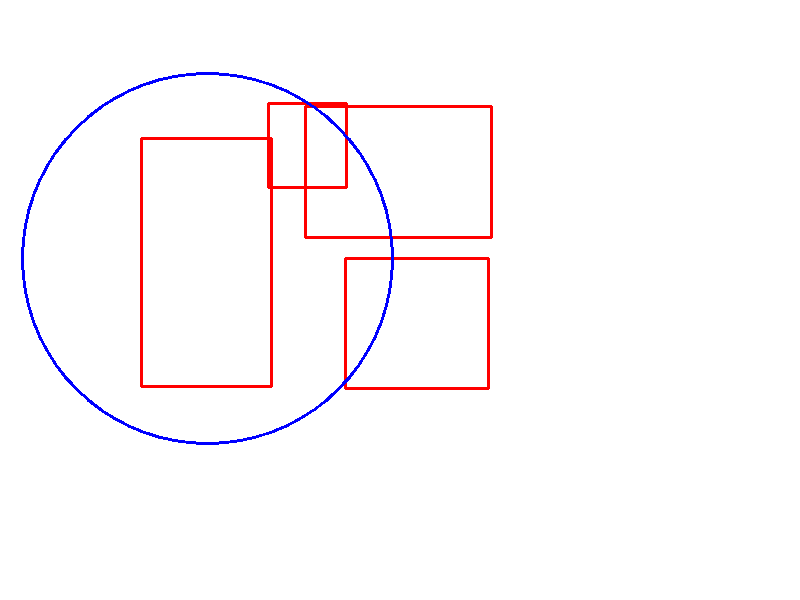
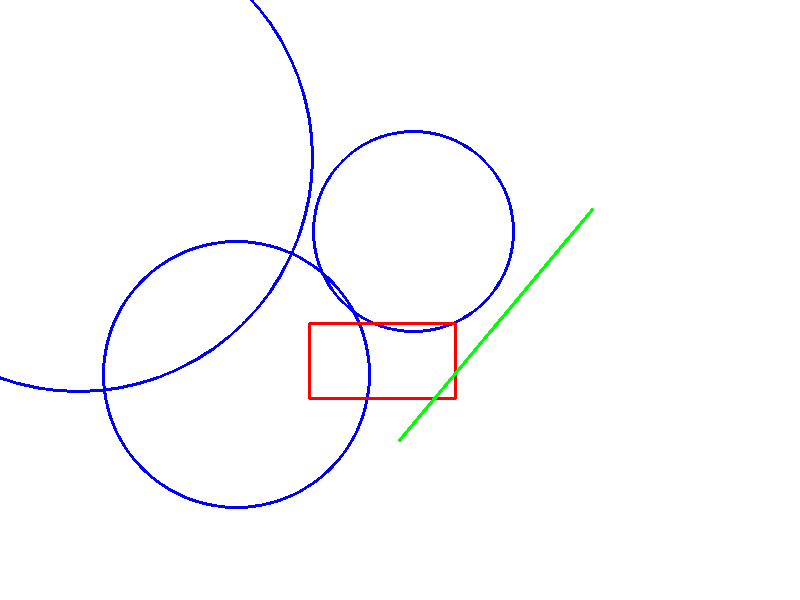
agregando informe y video

diff --git a/resuelto.py b/resuelto.py
@@ -13,9 +13,9 @@ import numpy as np
 # ABRIR IMÁGENES
 
 # Cargar las tres imágenes desde el disco
-img1 = cv2.imread("imagen1.jpg")
-img2 = cv2.imread("imagen2.jpg")
-img3 = cv2.imread("imagen3.jpg")
+img1 = cv2.imread("imagen1.jpg") # persona
+img2 = cv2.imread("imagen2.jpg") # perro
+img3 = cv2.imread("imagen3.jpg") # gato
 
 # Verificar que las imágenes fueron cargadas correctamente
 if img1 is None or img2 is None or img3 is None: